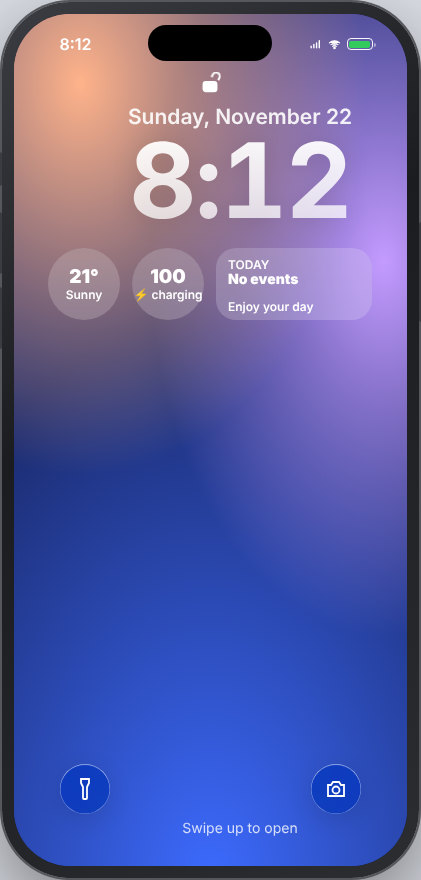
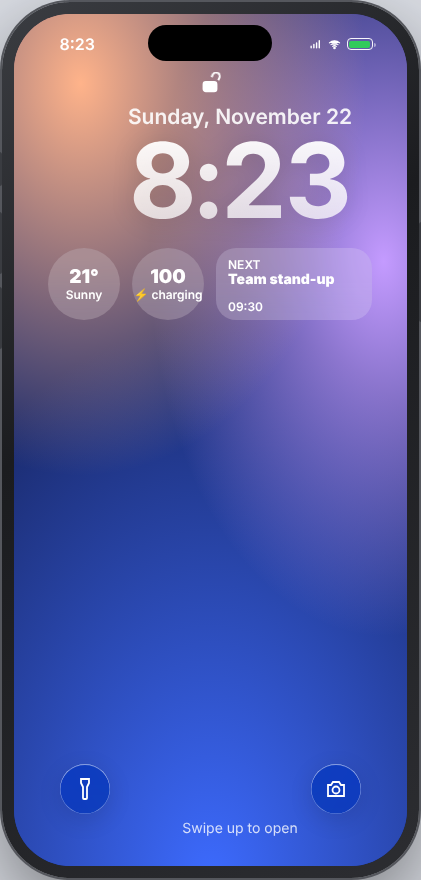
Fix design review findings in Glassline OS
From a rendered review in light and dark mode:
- grouped notifications collided with the .stack page class and hid the
  summary; renamed and show the count on its own line
- Search Cancel no longer clipped; internal ranker labels removed
- secondary text and placeholders raised to 4.5:1 contrast
- calendar widget sees seeded events before Calendar is opened
- icon-only buttons use SVG glyphs, accessible names and 44pt targets
  (Browser, Mail, Photos, Voice Memos, Calendar, Clock)
- Maps shows an offline state with a retry; clearer camera errors
- Wallet card titles, Store Get buttons on colour, Reminders and Today
  Edit labels

Claude-Session: https://claude.ai/code/session_01McjHfBnG6nPWe7EPNXsvTj

diff --git a/phone/apps.js b/phone/apps.js
@@ -22,6 +22,8 @@ function row({ icon, color, title, sub, val, go, tog, onclick, entity, cls = "" 
   return r;
 }
 const list = (...rows) => h("div.list", rows);
+/* icon-only button: SVG glyph, accessible name, 44x44 target */
+function iconBtn(glyph, label, onclick, color = "var(--accent)") { return h("button.ibtn", { title: label, "aria-label": label, onclick, style: { color }, html: sys(glyph) }); }
 const hdr = t => h("div.list-h", t);
 const foot = t => h("div.list-f", t);
 function tabbar(tabs, select, initial = 0) {
@@ -31,7 +33,7 @@ function tabbar(tabs, select, initial = 0) {
   return bar;
 }
 function minimizeOnScroll(scroller, bar) { let last = 0; scroller.addEventListener("scroll", () => { const y = scroller.scrollTop; if (y > last + 8 && y > 80) bar.classList.add("min"); else if (y < last - 8) bar.classList.remove("min"); last = y; }); }
-function plusBtn(fn, glyph = "plus") { return h("button.tbtn.circ.glass", { html: sys(glyph), onclick: fn, style: { color: "var(--accent)" } }); }
+function plusBtn(fn, glyph = "plus", label) { label = label || (glyph === "pen" ? "Compose" : "Add"); return h("button.tbtn.circ.glass", { title: label, "aria-label": label, html: sys(glyph), onclick: fn, style: { color: "var(--accent)" } }); }
 const ICON = (bg, glyph) => ({ bg, glyph });
 const avatarColor = n => ["#ff9f0a", "#30d158", "#64d2ff", "#bf5af2", "#ff375f", "#5e5ce6", "#ffd60a"][[...n].reduce((a, c) => a + c.charCodeAt(0), 0) % 7];
 const avatar = (n, s = 40) => h("div", { style: { width: s + "px", height: s + "px", borderRadius: "50%", background: `linear-gradient(${avatarColor(n)}, #8e8e93)`, color: "#fff", display: "grid", placeItems: "center", fontWeight: 600, fontSize: s * .4 + "px", flex: "none" } }, n.split(" ").map(x => x[0]).join("").slice(0, 2));
@@ -126,6 +128,7 @@ const REPLIES = ["Sounds good!", "Haha 😄", "On my way", "Sure, see you then",
 const SEEDS = {
   notes: ["notes", () => [{ id: "n1", text: "Groceries\nmilk, eggs, bread, coffee, apples", t: Date.now() - 3600e3, pinned: true }, { id: "n2", text: "Dinner ideas\nRisotto on Friday with Mia and Leo. Try the new pasta place downtown at 7pm.", t: Date.now() - 86400e3 }]],
   reminders: ["items", () => [{ id: "r1", text: "Call the dentist", done: false }, { id: "r2", text: "Buy birthday card for Ava", done: false, flag: true }, { id: "r3", text: "Pay electricity bill", done: true }]],
+  calendar: ["events", () => [{ id: "e1", title: "Team stand-up", date: today(), time: "09:30" }, { id: "e2", title: "Dinner with Mia", date: today(), time: "19:00" }]],
   messages: ["threads", () => ({ "Mia Chen": [{ me: false, text: "Hey! Are you free this weekend?", t: Date.now() - 7200e3 }, { me: true, text: "Yes! What did you have in mind?", t: Date.now() - 7100e3 }], "Leo Park": [{ me: false, text: "The hike was amazing", t: Date.now() - 86400e3 }] })],
 };
 for (const [app, [key, make]] of Object.entries(SEEDS)) { const st = O.appStore(app); if (st.get(key, null) == null) st.set(key, make()); }
@@ -258,7 +261,7 @@ O.registerApp({ id: "mail", name: "Mail", bg: "linear-gradient(#5ac8fa,#1a73e8)"
     function read(x) {
       const all = box(); const me = all.find(y => y.id === x.id); me.read = true; save(all);
       const sum = h("div", { style: { display: "none", background: "var(--fill)", borderRadius: "12px", padding: "10px 12px", margin: "12px 0", fontSize: "14px" } });
-      stack.push(() => ({ title: "", large: false, right: h("div.grp", h("button.btn", { onclick: () => { const a = box(); a.find(y => y.id === x.id).box = "trash"; save(a); stack.pop(); } }, "🗑"), h("button.btn", { onclick: () => compose("Re: " + x.subject, x.from) }, "↩")),
+      stack.push(() => ({ title: "", large: false, right: h("div.grp", iconBtn("trash", "Move to Trash", () => { const a = box(); a.find(y => y.id === x.id).box = "trash"; save(a); stack.pop(); }), iconBtn("reply", "Reply", () => compose("Re: " + x.subject, x.from))),
         body: h("div", { style: { padding: "0 16px" } }, h("h2", { style: { margin: "4px 0" } }, x.subject), h("div.sub", `From ${x.from} · ${new Date(x.t).toLocaleString()}`),
           h("button.pill-btn.grey", { style: { marginTop: "10px", fontSize: "13px" }, onclick: () => { sum.style.display = "block"; sum.innerHTML = "<b>✦ Summary</b><br>" + esc(summarizeText(x.body)); } }, "✦ Summarize"), sum,
           h("p", { style: { fontSize: "16px", lineHeight: 1.5 } }, x.body)) }));
@@ -292,15 +295,15 @@ O.registerApp({ id: "browser", name: "Browser", bg: "linear-gradient(#fff,#e5ecf
     const frame = h("iframe", { style: { flex: 1, border: 0, width: "100%", background: "#fff", display: "none" }, sandbox: "allow-scripts allow-same-origin allow-forms allow-popups", referrerpolicy: "no-referrer" });
     const start = h("div.scroll", { style: { padding: "70px 18px 120px" } });
     const drawStart = () => { start.innerHTML = ""; start.append(h("h2", "Favorites"), h("div", { style: { display: "grid", gridTemplateColumns: "repeat(4,1fr)", gap: "14px" } }, favs.map(([n, u]) => h("div", { style: { textAlign: "center", fontSize: "12px", cursor: "pointer" }, dataset: { entity: "bookmark", title: n }, onclick: () => go(u) }, h("div", { style: { width: "60px", height: "60px", margin: "0 auto 6px", borderRadius: "14px", background: "var(--card)", display: "grid", placeItems: "center", fontSize: "26px", fontWeight: 700, color: avatarColor(n) } }, n[0]), n))),
-      h("h2", { style: { marginTop: "26px" } }, "Reading List"), list(...st.get("reading", []).map(u => row({ title: u, onclick: () => go(u) }))), h("p.sub", { style: { fontSize: "12px", color: "var(--ink3)" } }, "Many sites refuse to load inside another page. When that happens, use ⤴ to open the page in a real browser tab.")); };
+      h("h2", { style: { marginTop: "26px" } }, "Reading List"), list(...st.get("reading", []).map(u => row({ title: u, onclick: () => go(u) }))), h("p.sub", { style: { fontSize: "12px", color: "var(--ink3)" } }, "Many sites refuse to load inside another page. When that happens, use the Open in a browser tab button below to open it in a real tab.")); };
     drawStart();
     const addr = h("input", { placeholder: "Search or enter website", style: { flex: 1, border: 0, outline: 0, background: "none", fontSize: "16px", textAlign: "center" }, onkeydown: e => { if (e.key === "Enter") { go(addr.value); addr.blur(); } }, onfocus: () => { addr.style.textAlign = "left"; addr.select(); }, onblur: () => addr.style.textAlign = "center" });
     const bar = h("div", { style: { flex: "none", padding: "8px 10px 30px", display: "flex", flexDirection: "column", gap: "8px", background: "var(--bg)" } },
-      h("div.glass", { style: { display: "flex", alignItems: "center", height: "44px", borderRadius: "22px", padding: "0 14px", gap: "6px" } }, h("span", { html: sys("search"), style: { width: "16px", opacity: .5 } }), addr, h("button", { onclick: () => hi >= 0 && load(hist[hi]), style: { fontSize: "16px" } }, "↻")),
-      h("div", { style: { display: "flex", justifyContent: "space-around", color: "var(--accent)", fontSize: "22px" } },
-        h("button", { onclick: () => { if (hi > 0) load(hist[--hi]); else home(); } }, "‹"), h("button", { onclick: () => { if (hi < hist.length - 1) load(hist[++hi]); } }, "›"),
-        h("button", { onclick: () => O.share({ title: "Share page", url: hist[hi] || "" }) }, "⤴"), h("button", { onclick: () => { if (hist[hi]) { const r = st.get("reading", []); r.unshift(hist[hi]); st.set("reading", [...new Set(r)].slice(0, 20)); O.toast("Added to Reading List"); } } }, "☆"),
-        h("button", { onclick: () => hist[hi] && window.open(hist[hi], "_blank", "noopener") }, "⧉"), h("button", { onclick: home }, "⌂")));
+      h("div.glass", { style: { display: "flex", alignItems: "center", height: "44px", borderRadius: "22px", padding: "0 14px", gap: "6px" } }, h("span", { html: sys("search"), style: { width: "16px", opacity: .5 } }), addr, iconBtn("reload", "Reload", () => hi >= 0 && load(hist[hi]))),
+      h("div", { style: { display: "flex", justifyContent: "space-around" } },
+        iconBtn("back", "Back", () => { if (hi > 0) load(hist[--hi]); else home(); }), iconBtn("fwd", "Forward", () => { if (hi < hist.length - 1) load(hist[++hi]); }),
+        iconBtn("share", "Share", () => O.share({ title: "Share page", url: hist[hi] || "" })), iconBtn("star", "Add to Reading List", () => { if (!hist[hi]) return O.toast("Open a page first"); const r = st.get("reading", []); r.unshift(hist[hi]); st.set("reading", [...new Set(r)].slice(0, 20)); O.toast("Added to Reading List"); }),
+        iconBtn("external", "Open in a browser tab", () => hist[hi] ? window.open(hist[hi], "_blank", "noopener") : O.toast("Open a page first")), iconBtn("home", "Start Page", home)));
     ctx.el.append(start, frame, bar);
     function go(input) {
       let u = String(input).trim(); if (!u) return;
@@ -338,7 +341,7 @@ O.registerApp({ id: "camera", name: "Camera", bg: "linear-gradient(#e5e5ea,#8e8e
       stopCam(); msg.textContent = "Starting camera…";
       if (!navigator.mediaDevices || !navigator.mediaDevices.getUserMedia) { msg.textContent = "No camera API here. Open the page from http://localhost or https to use your webcam."; return; }
       try { stream = await navigator.mediaDevices.getUserMedia({ video: { facingMode: facing, width: { ideal: 1280 } }, audio: false }); video.srcObject = stream; msg.textContent = ""; video.style.transform = facing === "user" ? "scaleX(-1)" : ""; }
-      catch (e) { msg.textContent = "Camera unavailable: " + (e.name === "NotAllowedError" ? "permission denied. Allow camera access in your browser." : e.message); }
+      catch (e) { msg.textContent = e.name === "NotAllowedError" ? "Camera access is off. Allow it in your browser's site settings, then reopen Camera." : e.name === "NotFoundError" ? "No camera found. Connect a camera, then reopen Camera." : "The camera couldn't start. Close other apps using it, then reopen Camera."; }
     }
     function stopCam() { if (stream) stream.getTracks().forEach(t => t.stop()); stream = null; video.srcObject = null; }
     function frameData() {
@@ -422,18 +425,18 @@ O.registerApp({ id: "photos", name: "Photos", bg: "#fff", glyph: "photos", categ
       const vid = h("video", { controls: true, playsInline: true, style: { position: "absolute", inset: "100px 0", width: "100%", display: "none" } });
       const stage = h("div", { style: { position: "relative", flex: 1, background: "var(--bg)", overflow: "hidden", touchAction: "none" } }, img, vid);
       const info = h("div.sub", { style: { textAlign: "center" } });
-      const favB = h("button", { onclick: () => { const all = st.get("items", []); const x = all.find(y => y.id === p().id); x.fav = !x.fav; p().fav = x.fav; st.set("items", all); show(); } });
-      const show = () => { const x = p(); img.style.backgroundImage = `url(${x.src})`; info.textContent = new Date(x.t).toLocaleString(); favB.textContent = x.fav ? "♥" : "♡";
+      const favB = h("button.ibtn", { style: { color: "var(--accent)" }, onclick: () => { const all = st.get("items", []); const x = all.find(y => y.id === p().id); x.fav = !x.fav; p().fav = x.fav; st.set("items", all); show(); } });
+      const show = () => { const x = p(); img.style.backgroundImage = `url(${x.src})`; info.textContent = new Date(x.t).toLocaleString(); favB.innerHTML = sys(x.fav ? "heartFill" : "heart"); favB.setAttribute("aria-label", x.fav ? "Unfavorite" : "Favorite"); favB.title = favB.getAttribute("aria-label");
         if (sessionVideos[x.id]) { vid.src = sessionVideos[x.id]; vid.style.display = "block"; } else { vid.style.display = "none"; } };
       stage.addEventListener("pointerdown", e => track(e, { move(dx) { img.style.transition = "none"; img.style.transform = `translateX(${dx}px)`; }, end(dx, dy, vx, vy, info) {
         img.style.transition = ""; img.style.transform = "";
         if (!info.moved) { img.style.backgroundSize = img.style.backgroundSize === "cover" ? "contain" : "cover"; return; }
         if (dy > 140) return stack.pop();
         const pr = dx + project(vx, .99); if (pr < -120 && idx < arr.length - 1) idx++; else if (pr > 120 && idx > 0) idx--; show(); } }));
-      const tools = h("div.glass", { style: { display: "flex", justifyContent: "space-around", padding: "12px 0 30px", fontSize: "22px", color: "var(--accent)" } },
-        h("button", { onclick: () => O.share({ title: "Photo", image: p().src, text: "Photo" }) }, "⤴"), favB,
-        h("button", { onclick: () => edit(p(), show) }, "⚙"),
-        h("button", { onclick: () => O.alert({ title: "Delete Photo?", message: "This photo will be deleted from this device.", buttons: [{ label: "Cancel" }, { label: "Delete", red: true, run: () => { st.set("items", st.get("items", []).filter(y => y.id !== p().id)); arr.splice(idx, 1); if (!arr.length) return stack.pop(); idx = Math.min(idx, arr.length - 1); show(); } }] }) }, "🗑"));
+      const tools = h("div.glass", { style: { display: "flex", justifyContent: "space-around", padding: "8px 0 26px" } },
+        iconBtn("share", "Share", () => O.share({ title: "Photo", image: p().src, text: "Photo" })), favB,
+        iconBtn("sliders", "Edit", () => edit(p(), show)),
+        iconBtn("trash", "Delete", () => O.alert({ title: "Delete Photo?", message: "This photo will be deleted from this device.", buttons: [{ label: "Cancel" }, { label: "Delete", red: true, run: () => { st.set("items", st.get("items", []).filter(y => y.id !== p().id)); arr.splice(idx, 1); if (!arr.length) return stack.pop(); idx = Math.min(idx, arr.length - 1); show(); } }] })));
       stack.push(() => ({ title: "", large: false, under: info, body: h("div", { style: { display: "flex", flexDirection: "column", height: "100%" } }, stage), after: tools }));
       show();
     }
@@ -463,10 +466,10 @@ O.registerApp({ id: "clock", name: "Clock", bg: "#111", glyph: () => O.svg(`<cir
       () => { const b = h("div"); const draw = () => { b.innerHTML = ""; zones().forEach(z => { let t = ""; try { t = new Date().toLocaleTimeString([], { timeZone: z, hour: "2-digit", minute: "2-digit" }); } catch { t = "--"; }
           b.append(h("div", { style: { display: "flex", justifyContent: "space-between", alignItems: "center", padding: "14px 16px", borderBottom: ".5px solid #333" } }, h("div", h("div.sub", { style: { color: "#999" } }, "Today"), h("div", { style: { fontSize: "22px" } }, z.split("/").pop().replace(/_/g, " "))), h("div", { style: { fontSize: "46px", fontWeight: 200 } }, t))); }); };
         draw(); const iv = setInterval(draw, 15000); b.cleanup = () => clearInterval(iv);
-        return { title: "World Clock", right: h("button.btn", { onclick: () => O.prompt("Add a city (time zone)", "Australia/Sydney").then(v => { if (v) { try { new Date().toLocaleTimeString([], { timeZone: v }); st.set("zones", [...zones(), v]); draw(); } catch { O.toast("Unknown time zone"); } } }) }, "+"), b }; },
+        return { title: "World Clock", right: h("button.ibtn", { title: "Add City", "aria-label": "Add City", style: { color: "#ff9f0a" }, html: sys("plus"), onclick: () => O.prompt("Add a city (time zone)", "Australia/Sydney").then(v => { if (v) { try { new Date().toLocaleTimeString([], { timeZone: v }); st.set("zones", [...zones(), v]); draw(); } catch { O.toast("Unknown time zone"); } } }) }), b }; },
       () => { const b = h("div"); const draw = () => { b.innerHTML = ""; alarms().forEach(a => { const r = h("div", { dataset: { entity: "alarm", title: a.time }, style: { display: "flex", justifyContent: "space-between", alignItems: "center", padding: "10px 16px", borderBottom: ".5px solid #333", opacity: a.on ? 1 : .55 } },
           h("div", { onclick: () => O.sheet({ title: a.time, actions: [{ label: "Delete Alarm", red: true, run: () => { st.set("alarms", alarms().filter(x => x.id !== a.id)); draw(); } }] }) }, h("div", { style: { fontSize: "52px", fontWeight: 200 } }, a.time), h("div", a.label)), toggle(a.on, v => { const l = alarms(); l.find(x => x.id === a.id).on = v; st.set("alarms", l); draw(); })); b.append(r); }); };
-        draw(); return { title: "Alarms", right: h("button.btn", { onclick: () => O.prompt("New alarm (HH:MM, 24-hour)", "07:30").then(v => { if (v && /^\d{1,2}:\d{2}$/.test(v)) { st.set("alarms", [...alarms(), { id: uid(), time: v.padStart(5, "0"), on: true, label: "Alarm" }]); draw(); } }) }, "+"), b }; },
+        draw(); return { title: "Alarms", right: h("button.ibtn", { title: "Add Alarm", "aria-label": "Add Alarm", style: { color: "#ff9f0a" }, html: sys("plus"), onclick: () => O.prompt("New alarm (HH:MM, 24-hour)", "07:30").then(v => { if (v && /^\d{1,2}:\d{2}$/.test(v)) { st.set("alarms", [...alarms(), { id: uid(), time: v.padStart(5, "0"), on: true, label: "Alarm" }]); draw(); } }) }), b }; },
       () => { const disp = h("div", { style: { fontSize: "78px", fontWeight: 200, textAlign: "center", marginTop: "60px", fontVariantNumeric: "tabular-nums" } });
         const lapL = h("div", { style: { marginTop: "30px" } });
         const btn = (l, bg, fn) => h("button", { style: { width: "84px", height: "84px", borderRadius: "50%", background: bg, fontSize: "17px", boxShadow: "0 0 0 3px #000, 0 0 0 5px " + bg }, onclick: fn }, l);
@@ -522,7 +525,7 @@ O.registerApp({ id: "calendar", name: "Calendar", bg: "#fff", glyph: () => O.svg
       body.innerHTML = "";
       const y = view.getFullYear(), m = view.getMonth(); const first = (new Date(y, m, 1).getDay() + 6) % 7, days = new Date(y, m + 1, 0).getDate();
       const all = evs();
-      body.append(h("div", { style: { display: "flex", justifyContent: "space-between", alignItems: "center", padding: "0 16px 8px" } }, h("button.btn", { onclick: () => { view.setMonth(m - 1); draw(); } }, "‹"), h("b", { style: { fontSize: "20px", color: "var(--red)" } }, view.toLocaleDateString(undefined, { month: "long", year: "numeric" })), h("button.btn", { onclick: () => { view.setMonth(m + 1); draw(); } }, "›")));
+      body.append(h("div", { style: { display: "flex", justifyContent: "space-between", alignItems: "center", padding: "0 16px 8px" } }, iconBtn("back", "Previous Month", () => { view.setMonth(m - 1); draw(); }), h("b", { style: { fontSize: "20px", color: "var(--red)" } }, view.toLocaleDateString(undefined, { month: "long", year: "numeric" })), iconBtn("fwd", "Next Month", () => { view.setMonth(m + 1); draw(); })));
       const grid = h("div", { style: { display: "grid", gridTemplateColumns: "repeat(7,1fr)", textAlign: "center", padding: "0 8px", rowGap: "4px" } }, ..."MTWTFSS".split("").map(d => h("div.sub", { style: { color: "var(--ink3)", fontSize: "11px" } }, d)));
       for (let i = 0; i < first; i++) grid.append(h("div"));
       for (let d = 1; d <= days; d++) { const ds = `${y}-${pad2(m + 1)}-${pad2(d)}`; const isT = ds === today(), isS = ds === sel; const has = all.some(e => e.date === ds);
@@ -588,22 +591,28 @@ O.registerApp({ id: "weather", name: "Weather", bg: "linear-gradient(#4aa3ff,#1e
 O.registerApp({ id: "maps", name: "Maps", bg: "linear-gradient(#8ee27c,#4cb3ff)", glyph: "map", category: "Information", keywords: "directions navigation location",
   render(ctx) {
     const st = ctx.store;
-    const fr = h("iframe", { style: { position: "absolute", inset: 0, width: "100%", height: "100%", border: 0, background: "#e8e4da" }, referrerpolicy: "no-referrer" });
+    const fr = h("iframe", { title: "Map", style: { position: "absolute", inset: 0, width: "100%", height: "100%", border: 0, background: "#e8e4da" }, referrerpolicy: "no-referrer" });
+    const offline = h("div", { style: { position: "absolute", inset: "0 0 160px", display: "none", flexDirection: "column", alignItems: "center", justifyContent: "center", gap: "10px", textAlign: "center", padding: "0 40px", color: "var(--ink2)", background: "var(--bg)" } },
+      h("div", { style: { width: "56px", height: "56px", color: "var(--ink3)" }, html: O.svg(O.SYS.wifi) }), h("b", { style: { fontSize: "20px", color: "var(--ink)" } }, "Maps Needs the Internet"), h("div", "The map and place search load from OpenStreetMap. Connect to the internet and try again."),
+      h("button.pill-btn", { style: { marginTop: "6px", minHeight: "44px", padding: "0 22px" }, onclick: () => { const [la, lo] = st.get("view", [51.5072, -0.1276]); setView(la, lo); } }, "Try Again"));
+    // the iframe can't report failures across origins, so probe the map server directly
+    const checkNet = () => fetch("https://tile.openstreetmap.org/0/0/0.png", { mode: "no-cors", cache: "no-store" }).then(() => { offline.style.display = "none"; }, () => { offline.style.display = "flex"; });
+    fr.addEventListener("load", checkNet); window.addEventListener("online", checkNet); window.addEventListener("offline", checkNet);
     const setView = (lat, lon, z = .02) => { fr.src = `https://www.openstreetmap.org/export/embed.html?bbox=${lon - z},${lat - z * .8},${lon + z},${lat + z * .8}&layer=mapnik&marker=${lat},${lon}`; st.set("view", [lat, lon]); };
     const [lat, lon] = st.get("view", [51.5072, -0.1276]); setView(lat, lon);
     const results = h("div");
-    const inp = h("input", { placeholder: "Search Maps", style: { flex: 1, border: 0, outline: 0, background: "none", fontSize: "17px" }, onkeydown: e => e.key === "Enter" && find(inp.value) });
+    const inp = h("input", { placeholder: "Search Maps", "aria-label": "Search Maps", style: { flex: 1, minWidth: 0, border: 0, outline: 0, background: "none", fontSize: "17px", color: "var(--ink)" }, onkeydown: e => e.key === "Enter" && find(inp.value) });
     const sheetEl = h("div.glass", { style: { position: "absolute", left: "8px", right: "8px", bottom: "8px", borderRadius: "30px", padding: "14px 14px 30px" } },
       h("div", { style: { width: "36px", height: "5px", borderRadius: "3px", background: "var(--ink3)", margin: "-6px auto 10px" } }),
-      h("div", { style: { display: "flex", alignItems: "center", gap: "8px", background: "var(--fill)", borderRadius: "12px", padding: "8px 10px" } }, h("span", { html: sys("search"), style: { width: "18px", opacity: .6 } }), inp, h("button", { title: "My location", style: { fontSize: "20px" }, onclick: me }, "➤")),
+      h("div", { style: { display: "flex", alignItems: "center", gap: "8px", background: "var(--fill)", borderRadius: "12px", padding: "8px 10px" } }, h("span", { html: sys("search"), style: { width: "18px", opacity: .6 } }), inp, iconBtn("fwd", "My Location", me)),
       results);
-    ctx.el.append(fr, sheetEl);
+    ctx.el.append(fr, offline, sheetEl); checkNet();
     async function find(q) {
       if (!q) return; results.innerHTML = "<div class='sub' style='padding:10px'>Searching…</div>";
       try { const r = await (await fetch(`https://nominatim.openstreetmap.org/search?format=json&limit=5&q=${encodeURIComponent(q)}`)).json();
         results.innerHTML = ""; if (!r.length) results.append(h("div.sub", { style: { padding: "10px" } }, "No results"));
         r.forEach(p => results.append(h("div.row", { style: { background: "none" }, dataset: { entity: "place", title: p.display_name }, onclick: () => { setView(+p.lat, +p.lon, .01); results.innerHTML = ""; results.append(h("div", { style: { padding: "10px 4px" } }, h("b", p.display_name.split(",")[0]), h("div.sub", p.display_name), h("div", { style: { display: "flex", gap: "8px", marginTop: "10px" } }, h("button.pill-btn", { onclick: () => window.open(`https://www.openstreetmap.org/directions?to=${p.lat},${p.lon}`, "_blank", "noopener") }, "Directions"), h("button.pill-btn.grey", { onclick: () => O.share({ title: p.display_name, url: `https://www.openstreetmap.org/?mlat=${p.lat}&mlon=${p.lon}` }) }, "Share")))); } }, h("div.grow", h("div", p.display_name.split(",")[0]), h("div.sub", p.display_name.split(",").slice(1, 3).join(","))))));
-      } catch { results.innerHTML = "<div class='sub' style='padding:10px'>Search needs an internet connection.</div>"; }
+      } catch { results.innerHTML = "<div class='sub' style='padding:10px'>Couldn't search. Check your internet connection and try again.</div>"; checkNet(); }
     }
     function me() { if (!navigator.geolocation) return O.toast("Location unavailable"); navigator.geolocation.getCurrentPosition(p => setView(p.coords.latitude, p.coords.longitude, .01), () => O.toast("Location permission denied")); }
     ctx.onIntent(it => { if (it.q) { inp.value = it.q; find(it.q); } });
@@ -684,7 +693,7 @@ O.registerApp({ id: "reminders", name: "Reminders", bg: "#fff", glyph: "checklis
     const save = x => { st.set("items", x); O.index.dirty = true; };
     let showDone = false;
     const body = h("div");
-    const draw = () => { body.innerHTML = ""; const all = items();
+    const draw = () => { body.innerHTML = ""; const all = items(); const tb = body.closest && body.closest(".scr")?.querySelector(".nav .grp:last-child .btn"); if (tb) tb.textContent = showDone ? "Hide Completed" : "Show Completed";
       const counts = h("div", { style: { display: "grid", gridTemplateColumns: "1fr 1fr", gap: "10px", padding: "0 16px 16px" } }, ...[["Today", all.filter(i => !i.done).length, "#0a84ff"], ["Flagged", all.filter(i => i.flag && !i.done).length, "#ff9f0a"], ["All", all.length, "#555"], ["Completed", all.filter(i => i.done).length, "#8e8e93"]].map(([n, c, col]) =>
         h("div", { style: { background: "var(--card)", borderRadius: "12px", padding: "10px 12px" }, onclick: () => { if (n === "Completed") { showDone = !showDone; draw(); } } }, h("div", { style: { display: "flex", justifyContent: "space-between" } }, h("span", { style: { width: "30px", height: "30px", borderRadius: "50%", background: col, display: "inline-block" } }), h("b", { style: { fontSize: "24px" } }, c)), h("div.sub", { style: { color: "var(--ink3)", fontWeight: 600 } }, n))));
       body.append(counts, hdr("Reminders"));
@@ -696,7 +705,7 @@ O.registerApp({ id: "reminders", name: "Reminders", bg: "#fff", glyph: "checklis
       const input = h("input", { placeholder: "New Reminder", style: { border: 0, outline: 0, background: "none", flex: 1, fontSize: "17px" }, onkeydown: e => { if (e.key === "Enter" && input.value.trim()) { save([...items(), { id: uid(), text: input.value.trim(), done: false }]); draw(); body.querySelector("input")?.focus(); } } });
       L.append(h("div.row", h("span", { style: { color: "var(--accent)", fontSize: "22px" } }, "+"), input)); body.append(L); };
     const menu = i => O.sheet({ title: i.text, actions: [{ label: i.flag ? "Unflag" : "Flag", run: () => { const a = items(); a.find(x => x.id === i.id).flag = !i.flag; save(a); draw(); } }, { label: "Rename", run: () => O.prompt("Rename", i.text).then(v => { if (v) { const a = items(); a.find(x => x.id === i.id).text = v; save(a); draw(); } }) }, { label: "Delete", red: true, run: () => { save(items().filter(x => x.id !== i.id)); draw(); } }] });
-    draw(); ctx.stack().push(() => ({ title: "Reminders", right: h("button.btn", { onclick: () => { showDone = !showDone; draw(); } }, "Show/Hide Done"), body }));
+    draw(); ctx.stack().push(() => ({ title: "Reminders", right: h("button.btn", { onclick: () => { showDone = !showDone; draw(); } }, showDone ? "Hide Completed" : "Show Completed"), body }));
     O.on("reminders-changed", draw);
     ctx.onShow(draw);
   } });
@@ -899,7 +908,7 @@ O.registerApp({ id: "voicememos", name: "Voice Memos", bg: "#111", glyph: () => 
     const wave = h("canvas", { width: 360, height: 80, style: { width: "100%", height: "80px", display: "block" } });
     const draw = () => { L.innerHTML = ""; const m = st.get("memos", []); if (!m.length) L.append(h("div.empty", "No recordings. Tap the red button to record."));
       L.append(h("div.list.flush", m.map(x => h("div.row", { dataset: { entity: "recording", title: x.name }, style: { flexDirection: "column", alignItems: "stretch" } }, h("div", { style: { display: "flex", justifyContent: "space-between" } }, h("b", x.name), h("span.sub", O.fmtDur(x.dur))), h("div.sub", new Date(x.t).toLocaleString()),
-        h("div", { style: { display: "flex", alignItems: "center", gap: "10px" } }, h("audio", { controls: true, src: x.url, style: { flex: 1, height: "34px" } }), h("button", { style: { color: "var(--red)" }, onclick: () => { st.set("memos", st.get("memos", []).filter(y => y.id !== x.id)); draw(); } }, "🗑")))))); };
+        h("div", { style: { display: "flex", alignItems: "center", gap: "10px" } }, h("audio", { controls: true, src: x.url, style: { flex: 1, height: "34px" } }), iconBtn("trash", "Delete Recording", () => { st.set("memos", st.get("memos", []).filter(y => y.id !== x.id)); draw(); }, "var(--red)")))))); };
     const btn = h("button", { style: { width: "70px", height: "70px", borderRadius: "50%", border: "4px solid var(--sep)", display: "grid", placeItems: "center", margin: "0 auto" }, onclick: () => rec ? stop() : start() }, h("span", { style: { width: "54px", height: "54px", borderRadius: "50%", background: "var(--red)", transition: "all .25s" } }));
     async function start() {
       try { streamA = await navigator.mediaDevices.getUserMedia({ audio: true }); } catch (e) { return O.toast("Microphone unavailable: " + e.name); }
@@ -945,7 +954,7 @@ O.registerApp({ id: "wallet", name: "Wallet", bg: "#111", glyph: "wallet", categ
     let open = -1;
     const draw = () => { wrap.innerHTML = ""; cards.forEach(([n, sub, bg, ink], i) => { const top = open < 0 ? i * 64 : i === open ? 0 : 420 + (i > open ? i - 1 : i) * 12;
       wrap.append(h("div", { dataset: { entity: "card", title: n }, style: { position: "absolute", left: "16px", right: "16px", top: top + "px", height: "220px", borderRadius: "18px", background: bg, color: ink, padding: "18px", transition: "top .45s cubic-bezier(.3,1.2,.5,1)", boxShadow: "0 -4px 20px rgba(0,0,0,.4)", cursor: "pointer" }, onclick: () => { open = open === i ? -1 : i; draw(); } },
-        h("div", { style: { display: "flex", justifyContent: "space-between", fontWeight: 700 } }, n, "◈"), h("div", { style: { position: "absolute", bottom: "18px", left: "18px", fontSize: "17px", letterSpacing: "1px" } }, sub))); });
+        h("div", { style: { display: "flex", justifyContent: "space-between", fontWeight: 600 } }, h("span", n), h("span", { "aria-hidden": "true", style: { opacity: .7 } }, "◈")), h("div", { style: { position: "absolute", bottom: "18px", left: "18px", fontSize: "17px", letterSpacing: "1px" } }, sub))); });
       if (open >= 0) wrap.append(h("div", { style: { position: "absolute", top: "250px", left: 0, right: 0, textAlign: "center" } }, h("div", { style: { fontSize: "40px" } }, "◎"), h("div", "Hold near reader"), h("div.sub", { style: { color: "#999", marginTop: "8px", fontSize: "12px", padding: "0 40px" } }, "Demo only. These cards are fictional and cannot make payments."), h("button.pill-btn", { style: { marginTop: "14px" }, onclick: () => { O.haptic(40); O.toast("✓ Done (simulated)"); O.tone([[1046, .1], [1318, .2]], { gain: .06 }); } }, "Simulate Tap"))); };
     draw();
     ctx.el.append(h("div", { style: { padding: "60px 16px 10px", display: "flex", justifyContent: "space-between", alignItems: "center" } }, h("h1", { style: { margin: 0 } }, "Wallet"), h("button.tbtn.circ", { style: { background: "#222", color: "#fff" }, onclick: () => O.toast("Adding cards isn't possible in a demo") }, "+")), wrap);

diff --git a/phone/os.css b/phone/os.css
@@ -6,13 +6,13 @@
   --accent: #0066cc;           /* DESIGN.md colors.primary; colors.primary-on-dark in .dark */
   --red: #ff453a; --green: #30d158; --orange: #ff9f0a; --yellow: #ffd60a; --purple: #bf5af2; --pink: #ff375f; --teal: #64d2ff;
   /* light appearance */
-  --bg: #f5f5f7; --card: #ffffff; --ink: #1d1d1f; --ink2: #333333; --ink3: #7a7a7a; --sep: #e0e0e0; --fill: #d2d2d76b;
+  --bg: #f5f5f7; --card: #ffffff; --ink: #1d1d1f; --ink2: #333333; --ink3: #6e6e73; --sep: #e0e0e0; --fill: #d2d2d76b;
   --tint: 255,255,255; --tint-ink: #000;
   --stage: #d9dce3;
 }
 .dark {
   --accent: #2997ff;
-  --bg: #000000; --card: #272729; --ink: #ffffff; --ink2: #cccccc; --ink3: #7a7a7a; --sep: #333333; --fill: #7878803d;
+  --bg: #000000; --card: #272729; --ink: #ffffff; --ink2: #cccccc; --ink3: #a1a1a6; --sep: #333333; --fill: #7878803d;
   --tint: 30,30,32; --tint-ink: #fff;
 }
 @media (prefers-color-scheme: dark) { :root:not([data-theme="light"]) { --stage: #0c0d10; } }
@@ -175,10 +175,10 @@ body.full #screen { border-radius: 0; }
 #spotlight { position: absolute; inset: 0; display: none; flex-direction: column; background: rgba(0,0,0,.35); backdrop-filter: blur(30px) saturate(1.4); -webkit-backdrop-filter: blur(30px) saturate(1.4); color: #fff; z-index: 40; }
 #spotlight.on { display: flex; }
 .sp-head { display: flex; align-items: center; gap: 10px; padding: 64px 16px 10px; }
-.sp-field { flex: 1; height: 40px; border-radius: 13px; display: flex; align-items: center; gap: 8px; padding: 0 12px; color: var(--tint-ink); }
+.sp-field { flex: 1; min-width: 0; height: 40px; border-radius: 13px; display: flex; align-items: center; gap: 8px; padding: 0 12px; color: var(--tint-ink); }
 .sp-field svg { width: 18px; height: 18px; fill: none; stroke: currentColor; stroke-width: 2.2; opacity: .6; }
 .sp-field input { flex: 1; border: 0; outline: 0; background: none; font-size: 17px; }
-#spCancel { color: #fff; font-size: 17px; }
+#spCancel { color: #fff; font-size: 17px; flex: none; min-height: 44px; }
 #spBody { flex: 1; overflow-y: auto; padding: 4px 16px 40px; }
 .sp-sec { margin-top: 14px; }
 .sp-sec h5 { margin: 0 0 6px; font-size: 13px; font-weight: 600; opacity: .7; display: flex; justify-content: space-between; }
@@ -227,7 +227,9 @@ body.full #screen { border-radius: 0; }
 .ntf .h { display: flex; justify-content: space-between; font-size: 14px; font-weight: 600; }
 .ntf .h span { font-weight: 400; opacity: .55; font-size: 12.5px; }
 .ntf .m { font-size: 14px; line-height: 1.3; overflow: hidden; display: -webkit-box; -webkit-line-clamp: 3; -webkit-box-orient: vertical; }
-.ntf.stack::after { content: ""; position: absolute; left: 12px; right: 12px; bottom: -7px; height: 12px; border-radius: 0 0 18px 18px; background: rgba(var(--tint), .45); z-index: -1; }
+.ntf .more { font-size: 12px; opacity: .6; margin-top: 2px; }
+.ntf.grouped { margin-bottom: 6px; }
+.ntf.grouped::after { content: ""; position: absolute; left: 12px; right: 12px; bottom: -7px; height: 12px; border-radius: 0 0 18px 18px; background: rgba(var(--tint), .45); z-index: -1; }
 .ntf-summary { border-radius: 22px; padding: 12px 14px; font-size: 14px; color: var(--tint-ink); }
 .ntf-summary .h { font-size: 12px; font-weight: 700; opacity: .65; margin-bottom: 4px; display: flex; gap: 6px; align-items: center; }
 .nc-head { display: flex; justify-content: space-between; align-items: center; color: #fff; font-size: 20px; font-weight: 700; padding: 4px 6px; }
@@ -356,6 +358,10 @@ body.full #screen { border-radius: 0; }
 .nav .btn, .tbtn { color: var(--accent); font-size: 17px; display: flex; align-items: center; gap: 2px; min-height: 36px; }
 .tbtn.circ { width: 36px; height: 36px; border-radius: 50%; justify-content: center; }
 .tbtn.circ svg { width: 20px; height: 20px; }
+.tbtn.circ { min-width: 44px; min-height: 44px; }
+.ibtn { width: 44px; height: 44px; display: grid; place-items: center; border-radius: 22px; flex: none; }
+.ibtn svg { width: 22px; height: 22px; }
+.ibtn:active { transform: scale(.95); background: var(--fill); }
 .nav .grp { display: flex; gap: 6px; align-items: center; }
 .chev { width: 12px; height: 20px; }
 .scroll { flex: 1; overflow-y: auto; overflow-x: hidden; -webkit-overflow-scrolling: touch; overscroll-behavior: contain; padding-bottom: 40px; }
@@ -399,3 +405,6 @@ body.full #screen { border-radius: 0; }
 .stack > .scr { position: absolute; inset: 0; background: var(--bg); display: flex; flex-direction: column; will-change: transform; }
 .stack > .scr.under { pointer-events: none; }
 .edge-shade { position: absolute; inset: 0; background: #000; pointer-events: none; opacity: 0; z-index: 1; }
+
+/* placeholders use the secondary text token so they keep 4.5:1 contrast in both modes */
+#screen input::placeholder, #screen textarea::placeholder { color: var(--ink3); opacity: 1; }

diff --git a/phone/core.js b/phone/core.js
@@ -110,6 +110,13 @@ const SYS = { // small UI glyphs used by the shell (stroke = currentColor)
   home: '<path d="M4 11 12 4l8 7v9h-5v-6H9v6H4z"/>',
   hotspot: '<circle cx="12" cy="12" r="2" fill="currentColor"/><path d="M8 8a5.5 5.5 0 0 0 0 8M16 8a5.5 5.5 0 0 1 0 8M5 5a10 10 0 0 0 0 14M19 5a10 10 0 0 1 0 14" stroke-linecap="round"/>',
   star: '<path d="m12 3.5 2.6 5.4 5.9.8-4.3 4.1 1 5.8L12 16.8l-5.2 2.8 1-5.8-4.3-4.1 5.9-.8z"/>',
+  fwd: '<path d="m9 4 8 8-8 8" stroke-width="2.6" stroke-linecap="round" stroke-linejoin="round"/>',
+  reply: '<path d="M10 6 4 12l6 6M4 12h10a6 6 0 0 1 6 6" stroke-width="2" stroke-linecap="round" stroke-linejoin="round"/>',
+  heart: '<path d="M12 20s-7.5-4.6-7.5-10A4.3 4.3 0 0 1 12 7.4 4.3 4.3 0 0 1 19.5 10c0 5.4-7.5 10-7.5 10z" stroke-width="1.8" stroke-linejoin="round"/>',
+  heartFill: '<path d="M12 20s-7.5-4.6-7.5-10A4.3 4.3 0 0 1 12 7.4 4.3 4.3 0 0 1 19.5 10c0 5.4-7.5 10-7.5 10z" fill="currentColor" stroke="none"/>',
+  sliders: '<path d="M4 7h10M18 7h2M4 17h2M10 17h10" stroke-linecap="round"/><circle cx="16" cy="7" r="2"/><circle cx="8" cy="17" r="2"/>',
+  external: '<path d="M14 4h6v6M20 4l-9 9M18 14v6H4V6h6" stroke-linecap="round" stroke-linejoin="round"/>',
+  reload: '<path d="M19 12a7 7 0 1 1-2-5M19 4v4h-4" stroke-linecap="round" stroke-linejoin="round"/>',
   pen: '<path d="M4 20h4L19 9l-4-4L4 16z" stroke-linejoin="round"/><path d="m13.5 6.5 4 4"/>',
   scan: '<path d="M4 8V5a1 1 0 0 1 1-1h3M16 4h3a1 1 0 0 1 1 1v3M20 16v3a1 1 0 0 1-1 1h-3M8 20H5a1 1 0 0 1-1-1v-3M7 12h10"/>',
 };
@@ -436,7 +443,7 @@ function todayPage() {
     h("div.today-search.glass", { onclick: () => openSpotlight() }, h("span", { html: sys("search") , style: { width: "18px" } }), "Search"),
     h("div.today-date", d.toLocaleDateString(undefined, { weekday: "long", month: "long", day: "numeric" })),
     h("div", { style: { display: "grid", gridTemplateColumns: "1fr 1fr", gap: "14px" } }, L.map(k => { const w = WIDGETS[k]; const el = w.render(); if (w.size === "wide") el.style.gridColumn = "span 2"; return el; })),
-    h("button.glass", { style: { alignSelf: "center", padding: "6px 16px", borderRadius: "16px", fontSize: "14px", color: "var(--tint-ink)" }, onclick: () => widgetGallery(true) }, "Edit"));
+    h("button.glass", { style: { alignSelf: "center", minHeight: "44px", padding: "0 22px", borderRadius: "22px", fontSize: "15px", fontWeight: 600, color: "var(--tint-ink)" }, onclick: () => widgetGallery(true) }, "Edit Widgets"));
 }
 const LIB_CATS = [["Suggestions", null], ["Recently Added", null], ["Social", "Social"], ["Utilities", "Utilities"], ["Productivity & Finance", "Productivity"], ["Creativity", "Creativity"], ["Entertainment", "Entertainment"], ["Information & Reading", "Information"], ["Health & Fitness", "Health"], ["Games", "Games"]];
 function libraryPage() {
@@ -1122,7 +1129,7 @@ function renderNC() {
   for (const [app, g] of groups) {
     const expanded = expandedGroups.has(app) || g.length === 1;
     if (expanded) g.forEach(n => list.append(ntfEl(n)));
-    else { const el = ntfEl(g[0]); el.classList.add("stack"); el.querySelector(".m").textContent = g[0].body + (g.length > 1 ? `  (+${g.length - 1} more)` : "");
+    else { const el = ntfEl(g[0]); el.classList.add("grouped"); el.querySelector(".b").append(h("div.more", `${g.length - 1} more notification${g.length > 2 ? "s" : ""}`));
       el.addEventListener("click", ev => { ev.stopPropagation(); expandedGroups.add(app); renderNC(); }, { capture: true }); list.append(el); }
   }
 }
@@ -1413,7 +1420,7 @@ function renderSpotlight() {
       const s = icon.querySelector("svg"); if (s && !(e.id || "").startsWith("app:")) { s.style.color = "#fff"; s.style.width = "20px"; s.style.height = "20px"; }
       const hl = t => window.GlasslineSearch.highlight(t, r.highlight);
       box.append(h("div.sp-row", { dataset: { i }, onclick: () => runResult(e, q) }, icon, h("div", { style: { minWidth: 0, flex: 1 } }, h("div.t", { html: hl(e.title) }), h("div.s", { html: hl(e.subtitle || "") })),
-        e.type === "store" ? h("button.pill-btn.grey", { style: { padding: "4px 12px", fontSize: "13px" }, onclick: ev => { ev.stopPropagation(); install(e.id.slice(4)); toast("Installing " + e.title); } }, "Get") : h("span.sp-why", (r.why || []).join(" + "))));
+        e.type === "store" ? h("button.pill-btn.grey", { style: { padding: "4px 12px", fontSize: "13px" }, onclick: ev => { ev.stopPropagation(); install(e.id.slice(4)); toast("Installing " + e.title); } }, "Get") : null));
     });
     body.append(h("div.sp-sec", h("h5", label), box));
   }

diff --git a/phone/store-apps.js b/phone/store-apps.js
@@ -237,8 +237,8 @@ O.registerApp({ id: "store", name: "Store", bg: "linear-gradient(#20b2ff,#1a6dff
     const host = h("div", { style: { position: "absolute", inset: 0 } }); ctx.el.append(host);
     const stack = O.makeStack(host);
     const catalog = () => Object.values(O.apps).filter(a => !a.builtin || (O.saved.removed || []).includes(a.id));
-    const getBtn = a => {
-      const b = h("button.pill-btn" + (O.isInstalled(a.id) ? ".grey" : ".grey"), { style: { minWidth: "72px", fontSize: "14px" }, onclick: async e => {
+    const getBtn = (a, onColor = false) => {
+      const b = h("button.pill-btn.grey", { "aria-label": (O.isInstalled(a.id) ? "Open " : "Get ") + a.name, style: { minWidth: "72px", minHeight: "32px", fontSize: "14px", background: onColor ? "#fff" : "" }, onclick: async e => {
         e.stopPropagation();
         if (O.isInstalled(a.id) && !O.installing) return O.open(a.id);
         if (O.isInstalled(a.id)) return O.open(a.id);
@@ -262,7 +262,7 @@ O.registerApp({ id: "store", name: "Store", bg: "linear-gradient(#20b2ff,#1a6dff
     const pages = [
       () => { const feat = catalog().filter(a => !a.builtin); const pick = feat[new Date().getDate() % Math.max(1, feat.length)];
         const card = (label, title, a, bg) => h("div", { style: { margin: "0 16px 18px", borderRadius: "22px", overflow: "hidden", background: bg, color: "#fff", padding: "20px", minHeight: "300px", display: "flex", flexDirection: "column", boxShadow: "0 10px 30px rgba(0,0,0,.15)", cursor: "pointer" }, onclick: () => a && product(a) },
-          h("div", { style: { fontSize: "13px", fontWeight: 700, opacity: .8 } }, label), h("div", { style: { fontSize: "28px", fontWeight: 800, lineHeight: 1.1 } }, title), h("div", { style: { marginTop: "auto", display: "flex", alignItems: "center", gap: "10px", background: "rgba(255,255,255,.18)", borderRadius: "14px", padding: "8px" } }, a ? [O.iconEl(a, { size: 44 }), h("div", { style: { flex: 1 } }, h("b", a.name), h("div", { style: { fontSize: "12px", opacity: .85 } }, a.subtitle)), getBtn(a)] : null));
+          h("div", { style: { fontSize: "13px", fontWeight: 700, opacity: .8 } }, label), h("div", { style: { fontSize: "28px", fontWeight: 800, lineHeight: 1.1 } }, title), h("div", { style: { marginTop: "auto", display: "flex", alignItems: "center", gap: "10px", background: "rgba(255,255,255,.18)", borderRadius: "14px", padding: "8px" } }, a ? [O.iconEl(a, { size: 44 }), h("div", { style: { flex: 1 } }, h("b", a.name), h("div", { style: { fontSize: "12px", opacity: .85 } }, a.subtitle)), getBtn(a, true)] : null));
         return { title: "Today", under: h("div.sub", { style: { color: "var(--ink3)", fontWeight: 600, textTransform: "uppercase" } }, new Date().toLocaleDateString(undefined, { weekday: "long", month: "long", day: "numeric" })),
           body: h("div", pick ? card("APP OF THE DAY", pick.subtitle, pick, pick.bg) : null, card("GET STARTED", "Games to play in a spare minute", O.apps.bubbles, "linear-gradient(135deg,#0b486b,#1fa2ff)"), card("WELLBEING", "Small habits, big changes", O.apps.habits, "linear-gradient(135deg,#f5576c,#f093fb)"), h("div", { style: { height: "100px" } })) }; },
       () => ({ title: "Games", body: h("div", h("div.list.flush", catalog().filter(a => a.category === "Games").map(appRow)), h("div", { style: { height: "100px" } })) }),
